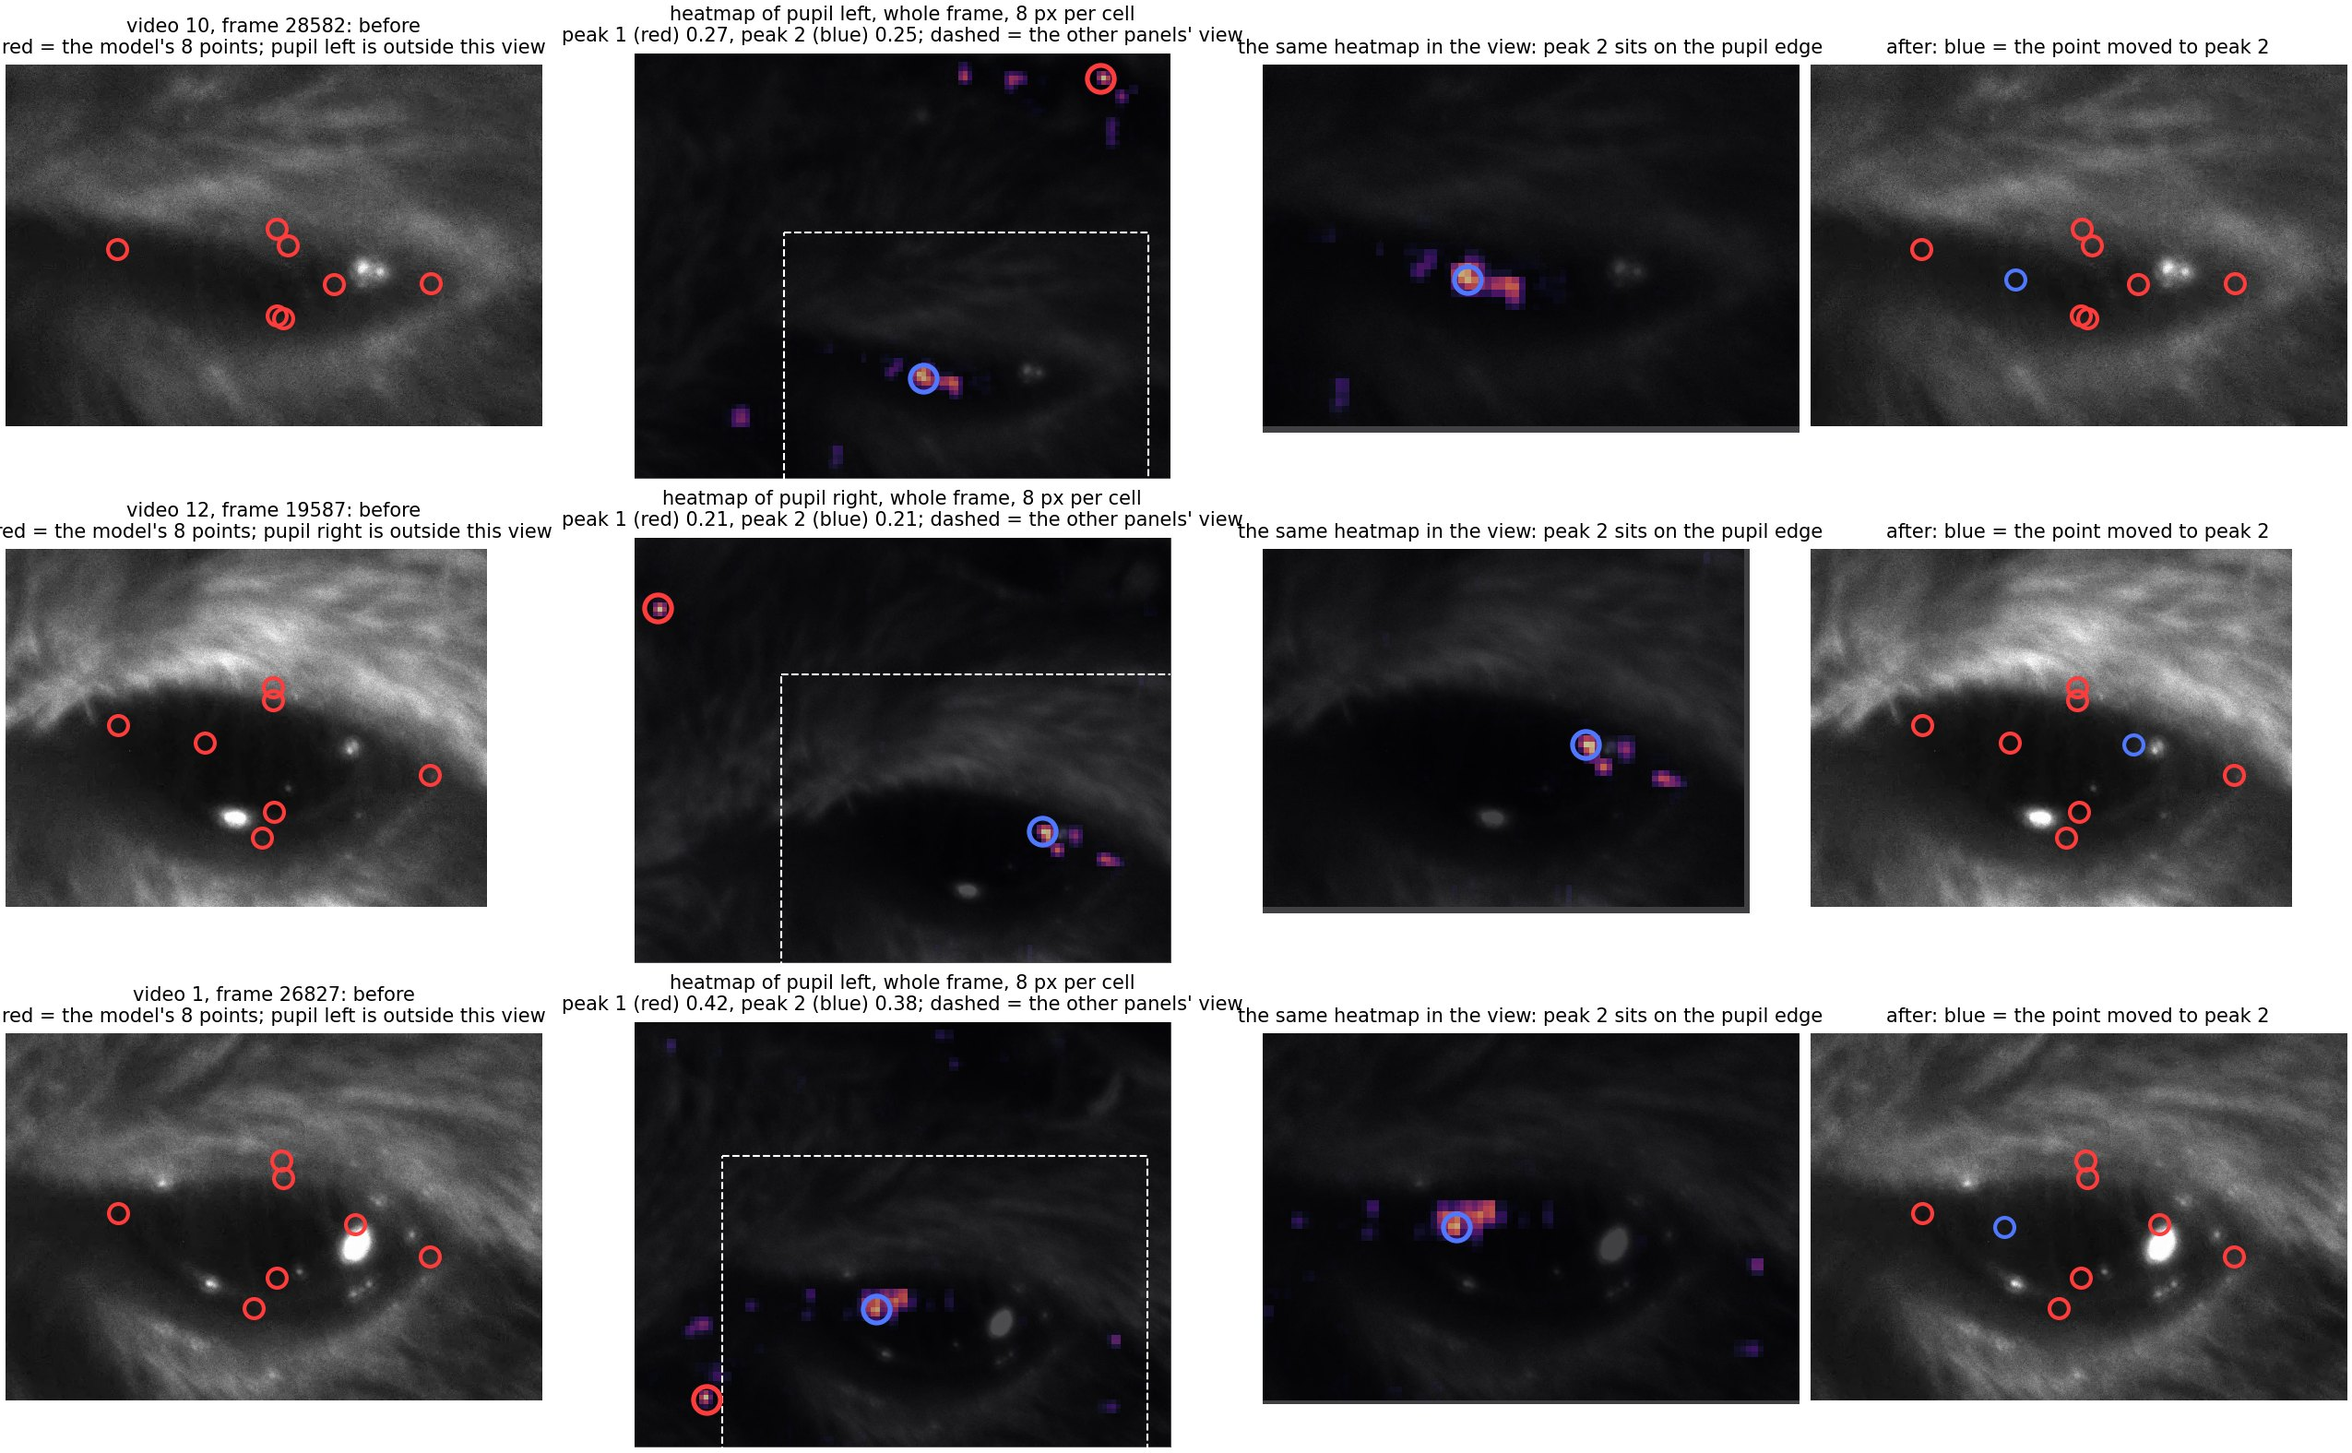
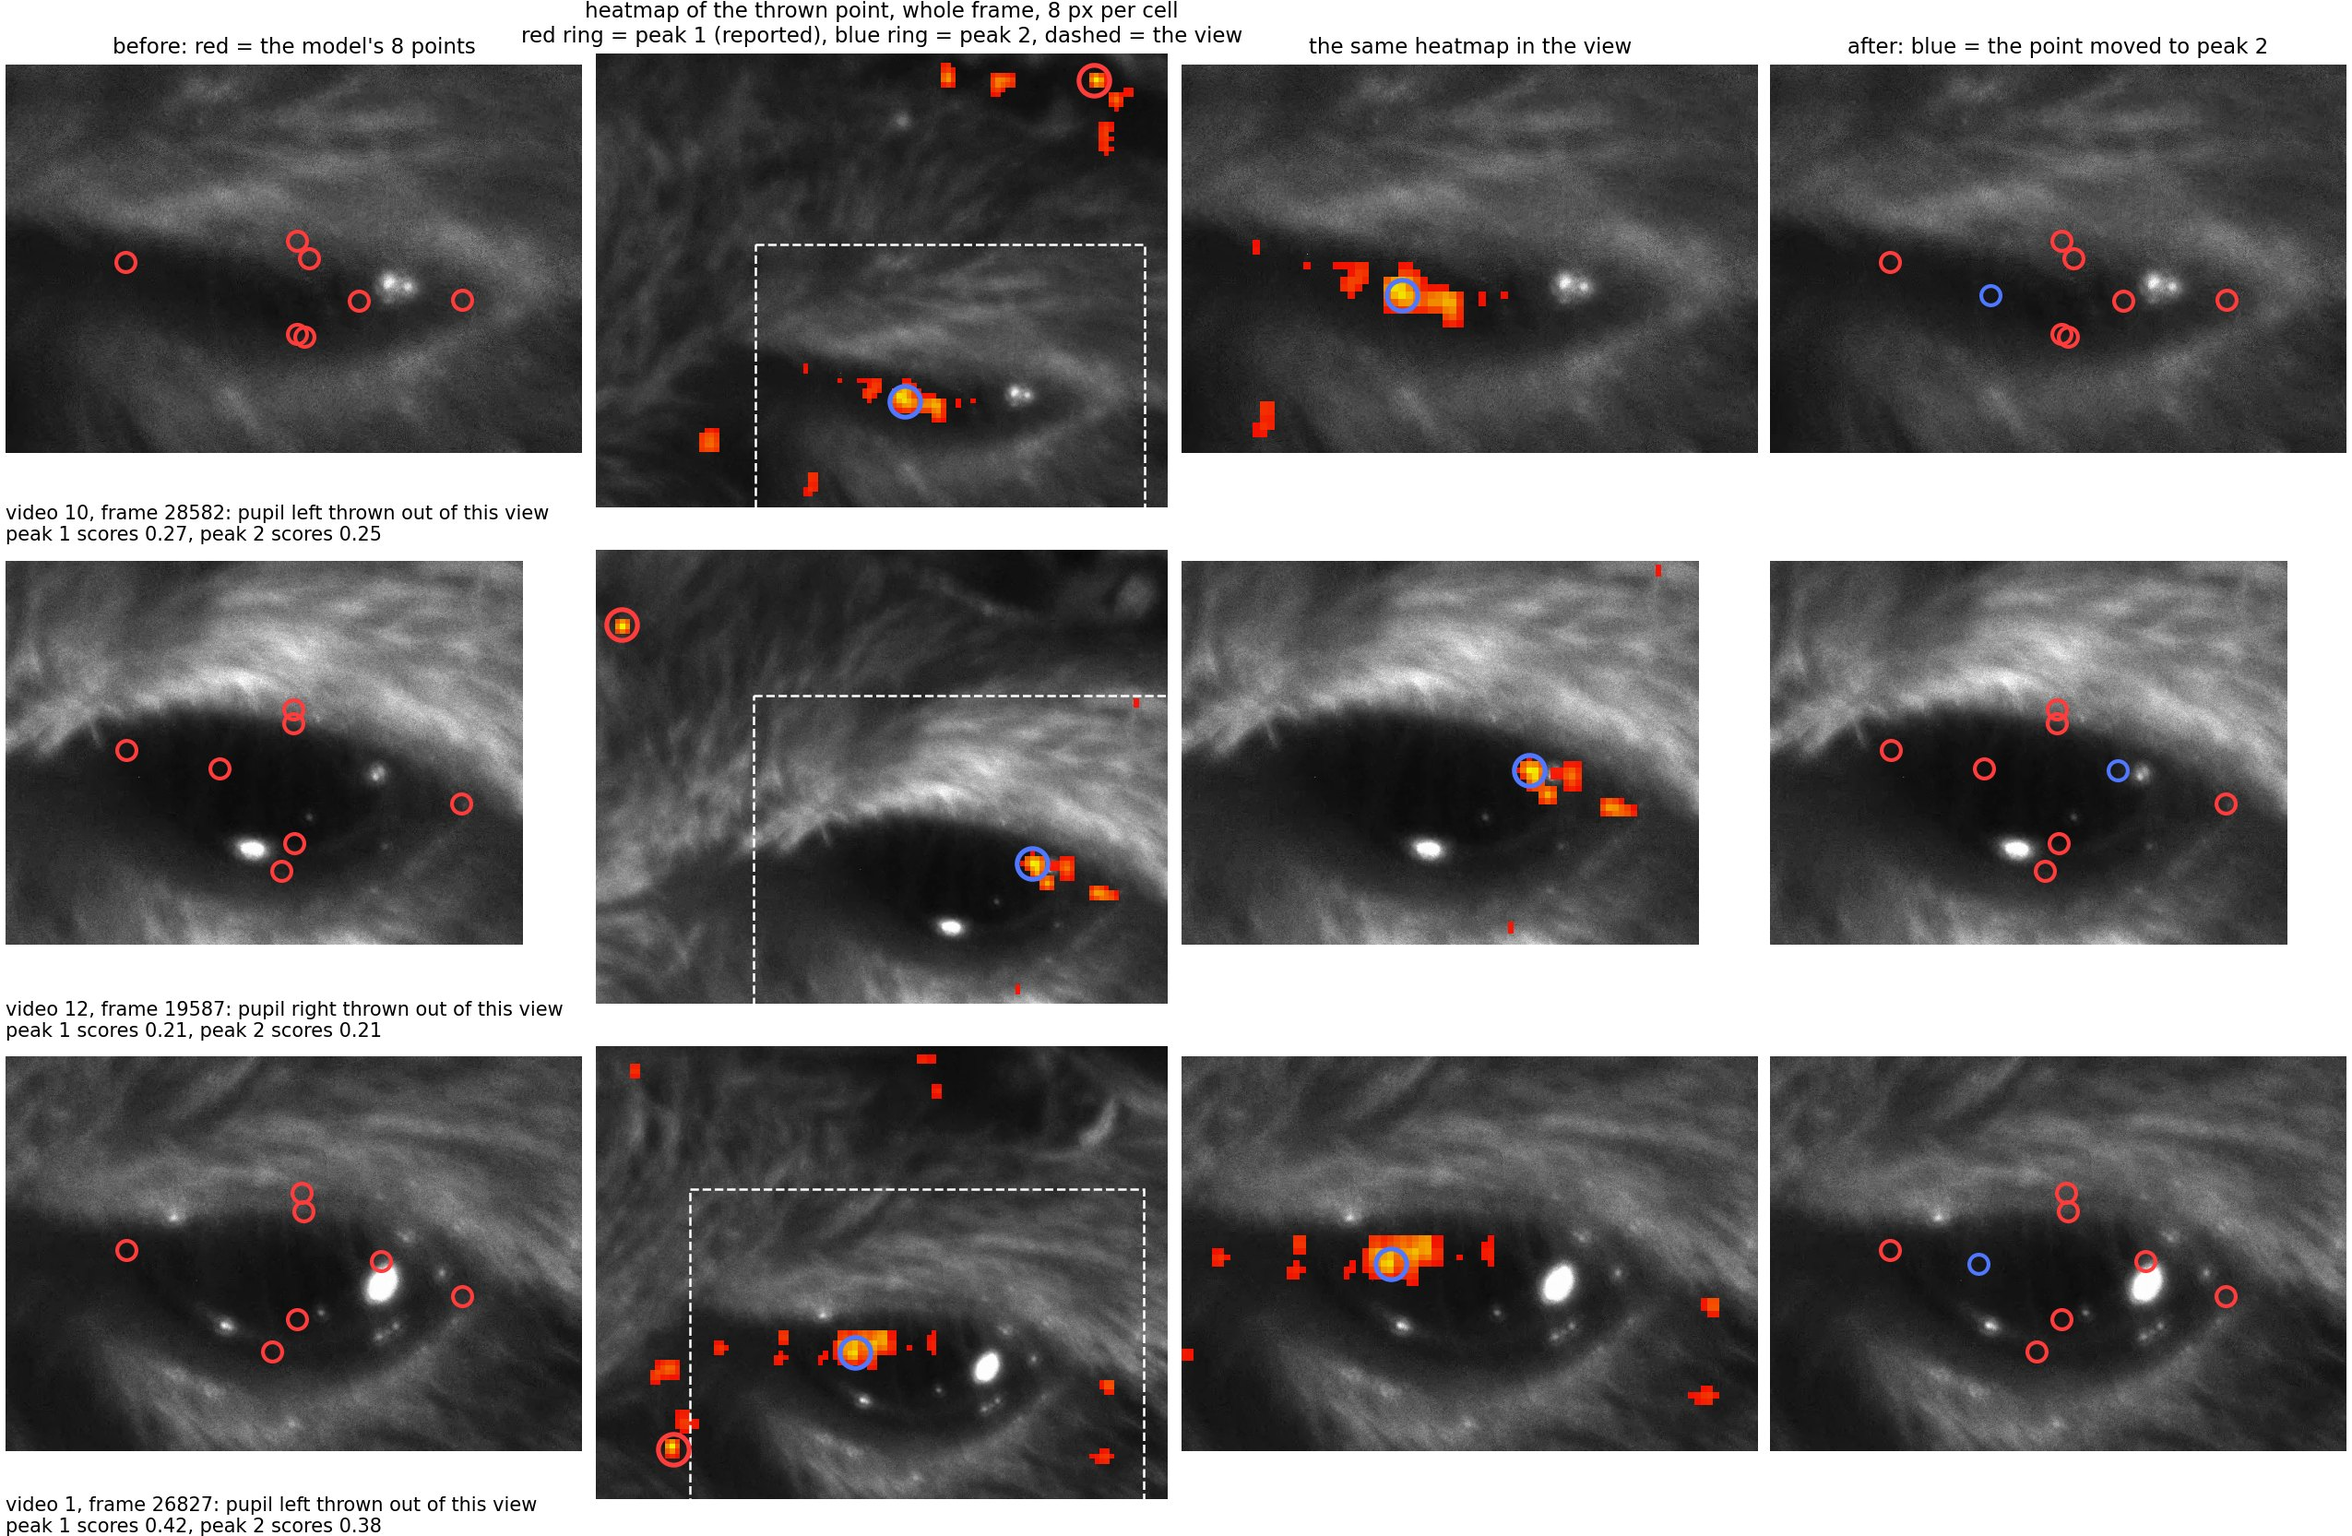
Heatmap example figure redrawn: one header row, captions under each row, heatmap drawn only where it scores

diff --git a/report/index.html b/report/index.html
@@ -78,7 +78,7 @@ math[display="block"]{margin:10px 0 6px;text-align:left;overflow-x:auto;max-widt
 
 <header>
   <h1><span lang="zh">小鼠眼睛关键点追踪：做了什么，结果是什么</span><span lang="en">Mouse eye keypoint tracking: what was done and what came out</span></h1>
-  <p class="muted small">Zhiheng Li (University of Minnesota), Kaiwen Sheng (Stanford) · <span lang="zh">页面生成时间</span><span lang="en">page built</span> 2026-10-30 23:36 · <a href="https://github.com/ZhihengLi0/mouse-behavior-tracking">GitHub: ZhihengLi0/mouse-behavior-tracking</a></p>
+  <p class="muted small">Zhiheng Li (University of Minnesota), Kaiwen Sheng (Stanford) · <span lang="zh">页面生成时间</span><span lang="en">page built</span> 2026-10-30 23:38 · <a href="https://github.com/ZhihengLi0/mouse-behavior-tracking">GitHub: ZhihengLi0/mouse-behavior-tracking</a></p>
 
   <div class="text" lang="zh">
     <p><b>任务：</b>用 DeepLabCut 在小鼠眼睛视频的每一帧上找 8 个点：瞳孔上、下、左、右，上眼睑、下眼睑，鼻侧眼角、颞侧眼角。由这 8 个点得到瞳孔大小、眼睛睁开程度和眨眼，之后与脑记录对齐。</p>
@@ -1158,8 +1158,8 @@ math[display="block"]{margin:10px 0 6px;text-align:left;overflow-x:auto;max-widt
   </div>
   <figure>
     <div class="figbox wide"><img src="assets/fig_heatmap_examples.jpg" alt="Three repaired frames: the model's points before, the heatmap of the thrown point with its two peaks, the points after"></div>
-    <figcaption lang="zh"><span class="tag">图 9-4：</span>三帧修复的实例。从左到右：修复前，红 = 模型的 8 个点，被甩的点在视野外；该点的热图，整帧，红圈 = 峰 1（模型报出的位置），蓝圈 = 峰 2，虚线框 = 其他三格的视野；同一热图在视野内的放大，峰 2 在瞳孔边缘上；修复后，蓝 = 挪到峰 2 的点。</figcaption>
-    <figcaption lang="en"><span class="tag">Figure 9-4:</span>Three repaired frames. Left to right: before, red = the model's 8 points, the thrown point outside the view; the heatmap of that point over the whole frame, red ring = peak 1 (the reported position), blue ring = peak 2, dashed box = the view of the other panels; the same heatmap inside the view, peak 2 on the pupil edge; after, blue = the point moved to peak 2.</figcaption>
+    <figcaption lang="zh"><span class="tag">图 9-4：</span>三帧修复的实例，每行一帧。从左到右：修复前，红 = 模型的 8 个点，被甩的那个点在视野外；该点的热图，整帧，只画分数不低于最高分 6% 的格子，红圈 = 峰 1（模型报出的位置），蓝圈 = 峰 2，虚线框 = 其他三格的视野；同一热图在视野内，峰 2 在瞳孔边缘上；修复后，蓝 = 挪到峰 2 的点。每行下面是视频、帧号和两个峰的分数。</figcaption>
+    <figcaption lang="en"><span class="tag">Figure 9-4:</span>Three repaired frames, one per row. Left to right: before, red = the model's 8 points, the thrown point outside the view; the heatmap of that point over the whole frame, only cells scoring at least 6% of the maximum drawn, red ring = peak 1 (the reported position), blue ring = peak 2, dashed box = the view of the other panels; the same heatmap inside the view, peak 2 on the pupil edge; after, blue = the point moved to peak 2. Under each row: video, frame and the two peaks' scores.</figcaption>
   </figure>
   <figure>
     <div class="figbox wide"><img src="assets/fig_acceptance_bars.png" alt="Seven acceptance tests: outcome on the 23 wrong frames and on the 28 flagged right frames"></div>

diff --git a/report/template.html b/report/template.html
@@ -1050,8 +1050,8 @@ math[display="block"]{margin:10px 0 6px;text-align:left;overflow-x:auto;max-widt
   </div>
   <figure>
     <div class="figbox wide"><img src="assets/fig_heatmap_examples.jpg" alt="Three repaired frames: the model's points before, the heatmap of the thrown point with its two peaks, the points after"></div>
-    <figcaption lang="zh"><span class="tag">图 9-4：</span>三帧修复的实例。从左到右：修复前，红 = 模型的 8 个点，被甩的点在视野外；该点的热图，整帧，红圈 = 峰 1（模型报出的位置），蓝圈 = 峰 2，虚线框 = 其他三格的视野；同一热图在视野内的放大，峰 2 在瞳孔边缘上；修复后，蓝 = 挪到峰 2 的点。</figcaption>
-    <figcaption lang="en"><span class="tag">Figure 9-4:</span>Three repaired frames. Left to right: before, red = the model's 8 points, the thrown point outside the view; the heatmap of that point over the whole frame, red ring = peak 1 (the reported position), blue ring = peak 2, dashed box = the view of the other panels; the same heatmap inside the view, peak 2 on the pupil edge; after, blue = the point moved to peak 2.</figcaption>
+    <figcaption lang="zh"><span class="tag">图 9-4：</span>三帧修复的实例，每行一帧。从左到右：修复前，红 = 模型的 8 个点，被甩的那个点在视野外；该点的热图，整帧，只画分数不低于最高分 6% 的格子，红圈 = 峰 1（模型报出的位置），蓝圈 = 峰 2，虚线框 = 其他三格的视野；同一热图在视野内，峰 2 在瞳孔边缘上；修复后，蓝 = 挪到峰 2 的点。每行下面是视频、帧号和两个峰的分数。</figcaption>
+    <figcaption lang="en"><span class="tag">Figure 9-4:</span>Three repaired frames, one per row. Left to right: before, red = the model's 8 points, the thrown point outside the view; the heatmap of that point over the whole frame, only cells scoring at least 6% of the maximum drawn, red ring = peak 1 (the reported position), blue ring = peak 2, dashed box = the view of the other panels; the same heatmap inside the view, peak 2 on the pupil edge; after, blue = the point moved to peak 2. Under each row: video, frame and the two peaks' scores.</figcaption>
   </figure>
   <figure>
     <div class="figbox wide"><img src="assets/fig_acceptance_bars.png" alt="Seven acceptance tests: outcome on the 23 wrong frames and on the 28 flagged right frames"></div>

diff --git a/report/index_en.html b/report/index_en.html
@@ -75,7 +75,7 @@ math[display="block"]{margin:10px 0 6px;text-align:left;overflow-x:auto;max-widt
 
 <header>
   <h1><span lang="en">Mouse eye keypoint tracking: what was done and what came out</span></h1>
-  <p class="muted small">Zhiheng Li (University of Minnesota), Kaiwen Sheng (Stanford) · <span lang="en">page built</span> 2026-10-30 23:36 · <a href="https://github.com/ZhihengLi0/mouse-behavior-tracking">GitHub: ZhihengLi0/mouse-behavior-tracking</a></p>
+  <p class="muted small">Zhiheng Li (University of Minnesota), Kaiwen Sheng (Stanford) · <span lang="en">page built</span> 2026-10-30 23:38 · <a href="https://github.com/ZhihengLi0/mouse-behavior-tracking">GitHub: ZhihengLi0/mouse-behavior-tracking</a></p>
 
   
   <div class="text" lang="en">
@@ -891,7 +891,7 @@ math[display="block"]{margin:10px 0 6px;text-align:left;overflow-x:auto;max-widt
   <figure>
     <div class="figbox wide"><img src="assets/fig_heatmap_examples.jpg" alt="Three repaired frames: the model's points before, the heatmap of the thrown point with its two peaks, the points after"></div>
     
-    <figcaption lang="en"><span class="tag">Figure 9-4:</span>Three repaired frames. Left to right: before, red = the model's 8 points, the thrown point outside the view; the heatmap of that point over the whole frame, red ring = peak 1 (the reported position), blue ring = peak 2, dashed box = the view of the other panels; the same heatmap inside the view, peak 2 on the pupil edge; after, blue = the point moved to peak 2.</figcaption>
+    <figcaption lang="en"><span class="tag">Figure 9-4:</span>Three repaired frames, one per row. Left to right: before, red = the model's 8 points, the thrown point outside the view; the heatmap of that point over the whole frame, only cells scoring at least 6% of the maximum drawn, red ring = peak 1 (the reported position), blue ring = peak 2, dashed box = the view of the other panels; the same heatmap inside the view, peak 2 on the pupil edge; after, blue = the point moved to peak 2. Under each row: video, frame and the two peaks' scores.</figcaption>
   </figure>
   <figure>
     <div class="figbox wide"><img src="assets/fig_acceptance_bars.png" alt="Seven acceptance tests: outcome on the 23 wrong frames and on the 28 flagged right frames"></div>

diff --git a/v2_new_pupil_top_video_scaling/scripts/heatmap_example_figure.py b/v2_new_pupil_top_video_scaling/scripts/heatmap_example_figure.py
@@ -93,12 +93,15 @@ def heatmaps(video, frames):
 
 def main():
     rows = pick()
-    fig, axes = plt.subplots(len(rows), 4, figsize=(17, 3.5 * len(rows)), constrained_layout=True, gridspec_kw={"width_ratios": [1, 1.3, 1, 1]})
+    fig, axes = plt.subplots(len(rows), 4, figsize=(17, 3.7 * len(rows)), constrained_layout=True)
+    heads = ["before: red = the model's 8 points", "heatmap of the thrown point, whole frame, 8 px per cell\nred ring = peak 1 (reported), blue ring = peak 2, dashed = the view",
+             "the same heatmap in the view", "after: blue = the point moved to peak 2"]
     for i, (v, f, b, pts) in enumerate(rows):
         imgs, store, xy, p2, off, G, Wd = heatmaps(v, [f])
         img, (Hm, s) = imgs[0], store[0]
         k = BPS.index(b)
         hm = Hm[k]
+        hmask = np.ma.masked_where(hm < 0.06 * hm.max(), hm)
         cx, cy = G.C[f]
         w = max(1.7 * Wd[f], 240)
         h = w * 0.75
@@ -106,43 +109,39 @@ def main():
         px, py = xy[b][f]
         nx, ny = p2[b][f]
         hext = (off[b][0] - s / 2, hm.shape[1] * s + off[b][0] - s / 2, hm.shape[0] * s + off[b][1] - s / 2, off[b][1] - s / 2)
-        for ax in axes[i]:
+        v1 = hm.max()
+        v2 = hm[int(round((ny - off[b][1]) / s)), int(round((nx - off[b][0]) / s))]
+        outside = not (x0 <= px <= x1 and y0 <= py <= y1)
+        for c, ax in enumerate(axes[i]):
             ax.set_xticks([])
             ax.set_yticks([])
             for sp in ax.spines.values():
                 sp.set_visible(False)
-        # 1 before
+            if i == 0:
+                ax.set_title(heads[c], fontsize=11)
         ax = axes[i][0]
         ax.imshow(img)
         for bb in BPS:
             ax.plot(*xy[bb][f], "o", mfc="none", mec="#ff3c3c", mew=2, ms=10)
         ax.set_xlim(x0, x1)
         ax.set_ylim(y1, y0)
-        outside = not (x0 <= px <= x1 and y0 <= py <= y1)
-        ax.set_title(f"video {v}, frame {f}: before\nred = the model's 8 points" + (f"; {b.replace('_', ' ')} is outside this view" if outside else ""), fontsize=10)
-        # 2 whole frame heatmap
+        ax.set_xlabel(f"video {v}, frame {f}: {b.replace('_', ' ')} thrown" + (" out of this view" if outside else "") + f"\npeak 1 scores {v1:.2f}, peak 2 scores {v2:.2f}", fontsize=10, loc="left")
         ax = axes[i][1]
         ax.imshow(img)
-        ax.imshow(hm, extent=hext, cmap="magma", alpha=0.7, vmin=0, vmax=hm.max(), interpolation="nearest")
-        ax.plot(px, py, "o", mfc="none", mec="#ff3c3c", mew=2.5, ms=14)
-        ax.plot(nx, ny, "o", mfc="none", mec="#5078ff", mew=2.5, ms=14)
-        ax.add_patch(plt.Rectangle((x0, y0), w, h, fill=False, ec="white", lw=1, ls="--"))
+        ax.imshow(hmask, extent=hext, cmap="autumn", alpha=0.95, vmin=0, vmax=hm.max(), interpolation="nearest")
+        ax.plot(px, py, "o", mfc="none", mec="#ff3c3c", mew=2.5, ms=16)
+        ax.plot(nx, ny, "o", mfc="none", mec="#5078ff", mew=2.5, ms=16)
+        ax.add_patch(plt.Rectangle((x0, y0), w, h, fill=False, ec="white", lw=1.2, ls="--"))
         ax.set_xlim(0, img.shape[1])
         ax.set_ylim(img.shape[0], 0)
-        v1 = hm.max()
-        v2 = hm[int(round((ny - off[b][1]) / s)), int(round((nx - off[b][0]) / s))]
-        ax.set_title(f"heatmap of {b.replace('_', ' ')}, whole frame, {s:.0f} px per cell\npeak 1 (red) {v1:.2f}, peak 2 (blue) {v2:.2f}; dashed = the other panels' view", fontsize=10)
-        # 3 heatmap in the view
         ax = axes[i][2]
         ax.imshow(img)
-        ax.imshow(hm, extent=hext, cmap="magma", alpha=0.75, vmin=0, vmax=hm.max(), interpolation="nearest")
-        ax.plot(nx, ny, "o", mfc="none", mec="#5078ff", mew=2.5, ms=14)
+        ax.imshow(hmask, extent=hext, cmap="autumn", alpha=0.95, vmin=0, vmax=hm.max(), interpolation="nearest")
+        ax.plot(nx, ny, "o", mfc="none", mec="#5078ff", mew=2.5, ms=16)
         if not outside:
-            ax.plot(px, py, "o", mfc="none", mec="#ff3c3c", mew=2.5, ms=14)
+            ax.plot(px, py, "o", mfc="none", mec="#ff3c3c", mew=2.5, ms=16)
         ax.set_xlim(x0, x1)
         ax.set_ylim(y1, y0)
-        ax.set_title("the same heatmap in the view: peak 2 sits on the pupil edge", fontsize=10)
-        # 4 after
         ax = axes[i][3]
         ax.imshow(img)
         for bb in BPS:
@@ -150,7 +149,6 @@ def main():
             ax.plot(*(p2[bb][f] if rep else xy[bb][f]), "o", mfc="none", mec="#5078ff" if rep else "#ff3c3c", mew=2, ms=10)
         ax.set_xlim(x0, x1)
         ax.set_ylim(y1, y0)
-        ax.set_title("after: blue = the point moved to peak 2", fontsize=10)
     fig.savefig(D / "heatmap_examples.png", dpi=150)
     print("figure", D / "heatmap_examples.png")
 
